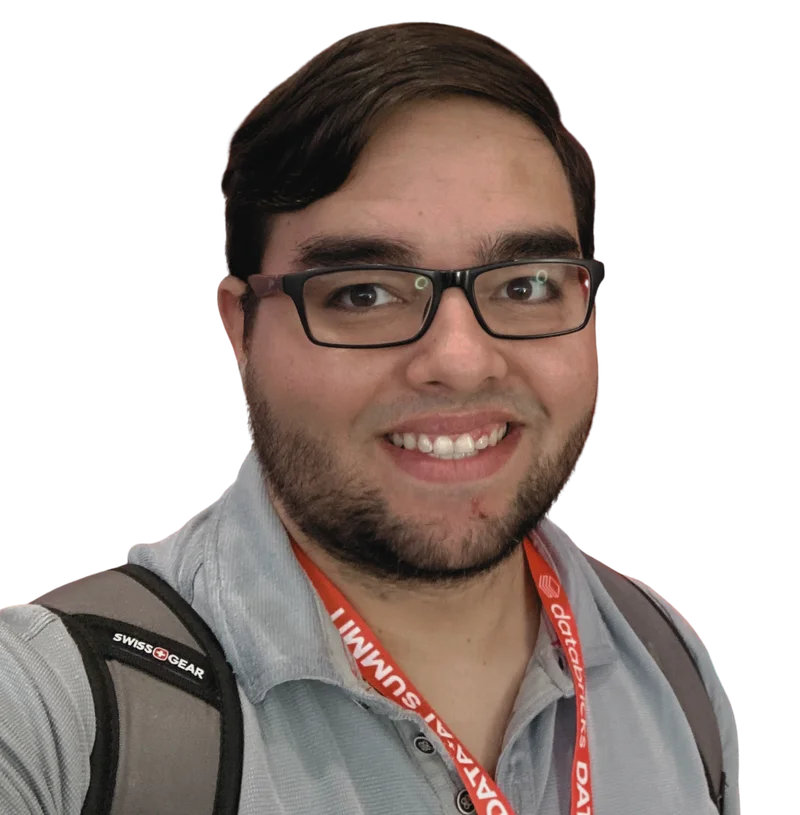
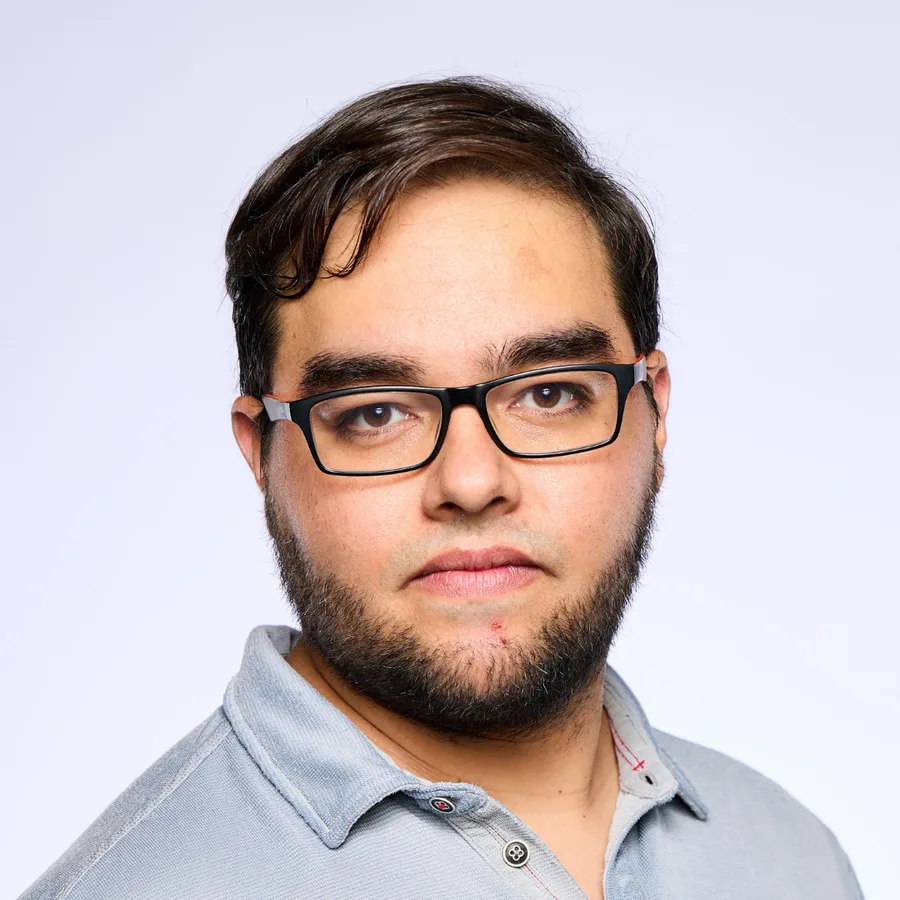
Adopt Violet & Teal palette with a fluid type and space scale
Swap the navy/blue tokens for the round-3 "Violet & Teal" scheme:
violet leads (links, buttons, accents), teal answers sparingly (tags,
focus rings). Move the hardcoded blues on the About map to tokens.

Rework the type and spacing scale to be fluid: clamp() on headings,
section gaps, and the hero, and bump the base size to 17px. The hero
portrait becomes a masked cut-out on a transparent ground instead of
the circular crop, with a matching glow ring on the About photo.

diff --git a/src/styles/layout.css b/src/styles/layout.css
@@ -32,7 +32,7 @@
 
 /* Hero Section */
 .hero-section {
-  padding: clamp(5rem, 5rem + 6vw, 9rem) 0 clamp(4rem, 4rem + 4vw, 7rem);
+  padding: clamp(5.5rem, 5rem + 7vw, 10rem) 0 clamp(5rem, 4rem + 5vw, 8rem);
   background:
     radial-gradient(ellipse 700px 800px at 50% 0%, rgba(var(--color-primary-rgb), 0.09) 0%, rgba(13, 20, 36, 0) 65%),
     radial-gradient(rgba(148, 163, 184, 0.16) 1px, transparent 1px) 0 0 / 24px 24px,
@@ -44,9 +44,9 @@
 }
 
 .hero-eyebrow {
-  font-size: 0.75rem;
+  font-size: 0.8125rem;
   font-weight: 600;
-  letter-spacing: 0.18em;
+  letter-spacing: 0.16em;
   text-transform: uppercase;
   color: var(--color-primary);
   margin-bottom: 1.25rem;
@@ -58,48 +58,49 @@
 
 .hero-image {
   float: right;
-  width: 260px;
-  height: 260px;
-  object-fit: cover;
-  object-position: top center;
-  margin: 0 0 1.5rem 2rem;
-  border-radius: 50%;
-  box-shadow: 0 0 0 4px var(--color-bg-secondary), 0 0 0 7px var(--color-border);
-  shape-outside: circle(50%);
-  shape-margin: 1.5rem;
+  width: clamp(290px, 24vw, 330px);
+  height: auto;
+  margin: -0.75rem -0.5rem 0.5rem 1.5rem;
+  /* Cut-out portrait on a transparent ground — no frame; the lower
+     edge dissolves into the page so the shoulders don't read as a crop. */
+  -webkit-mask-image: linear-gradient(to bottom, #000 80%, transparent 100%);
+  mask-image: linear-gradient(to bottom, #000 80%, transparent 100%);
+  shape-outside: margin-box;
+  shape-margin: 1rem;
 }
 
 .hero-title {
-  font-size: 4rem;
+  font-size: clamp(2.8rem, 2.4rem + 1.8vw, 3.75rem);
   font-weight: 800;
   letter-spacing: -0.04em;
-  line-height: 1;
-  margin-bottom: 1.75rem;
+  line-height: 1.02;
+  margin-bottom: 2rem;
   color: var(--color-text);
 }
 
 .hero-description {
-  font-size: 1.0625rem;
+  font-size: 1.1875rem;
   color: var(--color-text);
   line-height: 1.75;
-  max-width: 58ch;
-  margin-bottom: 2rem;
+  max-width: 60ch;
+  margin-bottom: 2.25rem;
 }
 
 .specialty-tags {
   display: flex;
   flex-wrap: wrap;
   gap: 0.5rem;
+  clear: right;
 }
 
 .specialty-tag {
   background: none;
-  color: var(--color-text-light);
-  padding: 0.25rem 0.75rem;
+  color: var(--color-secondary);
+  padding: 0.375rem 0.875rem;
   border-radius: var(--radius-pill);
-  font-size: 0.75rem;
+  font-size: 0.8125rem;
   font-weight: 400;
-  border: 1px solid var(--color-border);
+  border: 1px solid rgba(47, 217, 198, 0.32);
 }
 
 
@@ -115,7 +116,7 @@
 }
 
 .section-title {
-  font-size: 2rem;
+  font-size: clamp(2rem, 1.6rem + 1.6vw, 2.375rem);
   margin-bottom: var(--block-gap);
   color: var(--color-text);
   font-weight: 700;
@@ -125,16 +126,16 @@
 /* Cards Grid */
 .cards-grid {
   display: grid;
-  grid-template-columns: repeat(auto-fit, minmax(220px, 1fr));
-  gap: 1.75rem;
+  grid-template-columns: repeat(auto-fit, minmax(240px, 1fr));
+  gap: 2rem;
   margin-bottom: var(--block-gap);
 }
 
 .feature-card {
   display: flex;
   align-items: flex-start;
-  gap: 0.875rem;
-  padding: 1.5rem;
+  gap: 1rem;
+  padding: 1.75rem;
   background: var(--card-bg);
   border-radius: var(--radius-sm);
   border: 1px solid var(--color-border);
@@ -168,25 +169,25 @@
 
 .feature-content h3 {
   font-size: 1.125rem;
-  margin-bottom: 0.375rem;
+  margin-bottom: 0.5rem;
   color: var(--color-text);
   font-weight: 600;
 }
 
 .feature-content p {
   color: var(--color-text-light);
-  font-size: 0.9375rem;
-  line-height: 1.5;
+  font-size: 1rem;
+  line-height: 1.6;
   margin: 0;
 }
 
 /* Services Section */
 .services-section {
-  margin-top: calc(var(--section-gap) * 0.85);
+  margin-top: var(--section-gap);
 }
 
 .services-title {
-  font-size: 2rem;
+  font-size: clamp(2rem, 1.6rem + 1.6vw, 2.375rem);
   margin-bottom: var(--block-gap);
   color: var(--color-text);
   font-weight: 700;
@@ -228,15 +229,15 @@
 }
 
 .service-description {
-  font-size: 1rem;
+  font-size: 1.0625rem;
   color: var(--color-text-light);
-  line-height: 1.6;
+  line-height: 1.65;
   margin: 0;
   display: -webkit-box;
   -webkit-line-clamp: 2;
   -webkit-box-orient: vertical;
   overflow: hidden;
-  height: 3.2em;
+  height: 3.3em;
 }
 
 .services-cta-container {
@@ -356,7 +357,7 @@ main > section:last-child {
 }
 
 .section-header h2 {
-  font-size: 2rem;
+  font-size: clamp(2rem, 1.6rem + 1.6vw, 2.375rem);
   margin: 0;
 }
 
@@ -372,7 +373,7 @@ main > section:last-child {
 .content-grid {
   display: grid;
   grid-template-columns: repeat(auto-fill, minmax(320px, 1fr));
-  gap: 1.75rem;
+  gap: 2rem;
 }
 
 /* Podcast/Video Cards */
@@ -428,7 +429,7 @@ main > section:last-child {
    so the meta line and description align across the row. */
 .media-title {
   margin-bottom: 0.4rem;
-  font-size: 1.125rem;
+  font-size: 1.1875rem;
   line-height: 1.4;
   color: var(--color-text);
   display: -webkit-box;
@@ -449,7 +450,7 @@ main > section:last-child {
 
 .media-description {
   color: var(--color-text-light);
-  font-size: 0.9375rem;
+  font-size: 1rem;
   line-height: 1.6;
   display: -webkit-box;
   -webkit-line-clamp: 2;
@@ -468,12 +469,16 @@ main > section:last-child {
     font-size: clamp(2.5rem, 8vw, 4rem);
   }
 
+  .hero-description {
+    font-size: 1.0625rem;
+  }
+
   .hero-image {
     float: none;
     display: block;
-    margin: 0 auto 2rem;
-    width: 200px;
-    height: 200px;
+    margin: 0 auto 1rem;
+    width: 240px;
+    height: auto;
   }
 
   .hero-main {
@@ -557,7 +562,7 @@ main > section:last-child {
   }
 
   .section-title {
-    font-size: 1.35rem;
+    font-size: 1.6rem;
   }
 
   .cta-title {

diff --git a/src/styles/global.css b/src/styles/global.css
@@ -9,24 +9,24 @@
 }
 
 :root {
-  /* ── Color ───────────────────────────────────────────────
-     One brand accent: --color-primary. The other two are
-     scoped, not general-purpose fills:
-       --color-secondary  decorative gradient on the 404 page only
-       --color-accent     alternate a11y focus outline only (kept
-                          distinct from the primary focus ring); never a fill */
-  --color-primary: #2f6be0;        /* Blue brand accent — the only brand accent */
-  --color-primary-hover: #245bc9;  /* darker blue for pressed / hover fills */
-  --color-primary-rgb: 47, 107, 224;
-  --color-on-primary: #ffffff;     /* text on blue fills */
-  --color-secondary: #7c3aed;      /* 404 gradient only */
-  --color-accent: #f59e0b;         /* focus-outline accent only */
-  --color-text: #f6f8fc;           /* Light text on dark background */
-  --color-text-light: #98a4bb;     /* Muted blue-gray for secondary text */
-  --color-bg: #0d1424;             /* Dark navy background */
-  --color-bg-secondary: #172132;   /* Section band background */
-  --color-border: #2d3a52;         /* Border color for dark theme */
-  --color-surface: #182234;        /* Raised card surface, a step above the page */
+  /* ── Color · "Violet & Teal" (round-3 palette trial) ─────
+     Violet leads: links, buttons, accent text, active states.
+     Teal (--color-secondary) answers: a sparing second hue for
+     topic tags, focus rings, and highlight moments.
+       --color-accent  a11y focus outline — teal, distinct from
+                       the violet accent it sits near */
+  --color-primary: #a98bff;        /* Violet accent — links / accent text */
+  --color-primary-hover: #7a52ec;  /* deeper violet for pressed / hover fills */
+  --color-primary-rgb: 169, 139, 255;
+  --color-on-primary: #ffffff;     /* text on violet fills */
+  --color-secondary: #2fd9c6;      /* Teal — the second hue: tags, highlights, 404 gradient */
+  --color-accent: #2fd9c6;         /* focus-outline accent (teal) */
+  --color-text: #f2f0fc;           /* Light text on dark background */
+  --color-text-light: #a49ecb;     /* Muted violet-grey for secondary text */
+  --color-bg: #0c0a1c;             /* Deep indigo-black background */
+  --color-bg-secondary: #12102a;   /* Section band background */
+  --color-border: #2f2a5c;         /* Border color for dark theme */
+  --color-surface: #171438;        /* Raised card surface, a step above the page */
 
   --font-body: 'Inter', -apple-system, BlinkMacSystemFont, 'Segoe UI', Roboto, 'Helvetica Neue', Arial, sans-serif;
 
@@ -52,8 +52,8 @@
      One vertical scale for the whole page. Sections breathe
      on --section-gap; the space from a heading to its content
      is --block-gap; cards share --card-pad. */
-  --section-gap: clamp(4rem, 4rem + 4vw, 6.5rem);
-  --block-gap: 3rem;
+  --section-gap: clamp(5rem, 3.5rem + 5vw, 8rem);
+  --block-gap: clamp(2.75rem, 2rem + 2.4vw, 3.75rem);
   --card-pad: 1.75rem;
 
   --max-width: 1160px;
@@ -116,7 +116,7 @@ body {
   line-height: 1.7;
   color: var(--color-text);
   background-color: var(--color-bg);
-  font-size: 16px;
+  font-size: 17px;
   -webkit-font-smoothing: antialiased;
   -moz-osx-font-smoothing: grayscale;
 }
@@ -200,7 +200,7 @@ img {
   }
 
   body {
-    font-size: 15px;
+    font-size: 16px;
   }
 
   h1 { font-size: 2rem; }
@@ -225,7 +225,7 @@ img {
 /* Mobile phones */
 @media (max-width: 480px) {
   body {
-    font-size: 14px;
+    font-size: 15px;
   }
 
   h1 { font-size: 1.75rem; }

diff --git a/src/styles/content.css b/src/styles/content.css
@@ -126,7 +126,7 @@ picture:has(.card-image) {
 
 .card-title {
   margin-bottom: 0.75rem;
-  font-size: 1.125rem;
+  font-size: 1.1875rem;
   line-height: 1.4;
   color: var(--color-text);
 }
@@ -139,7 +139,7 @@ picture:has(.card-image) {
 
 .card-description {
   color: var(--color-text-light);
-  font-size: 0.9375rem;
+  font-size: 1rem;
   line-height: 1.6;
   flex: 1;
   display: -webkit-box;
